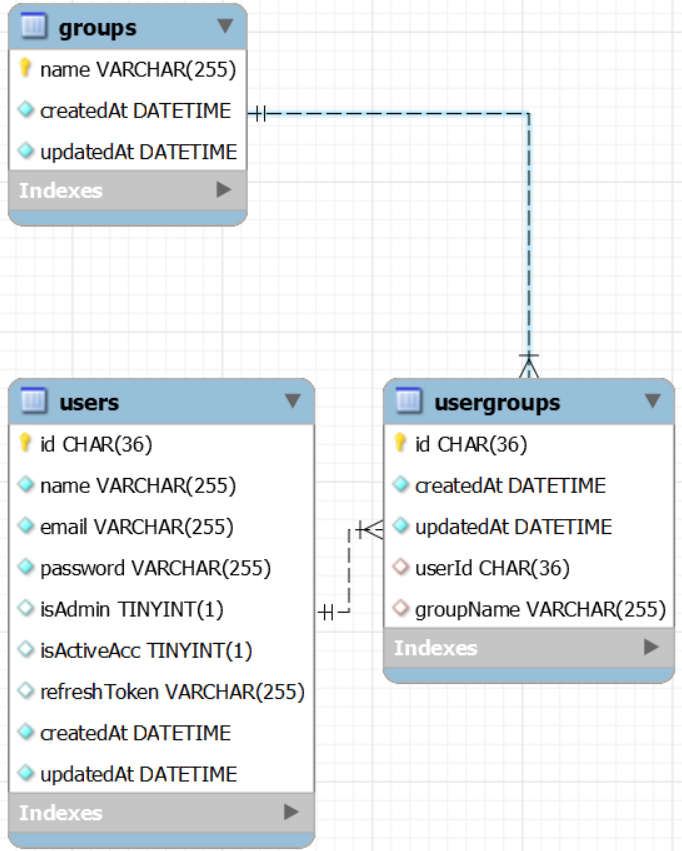
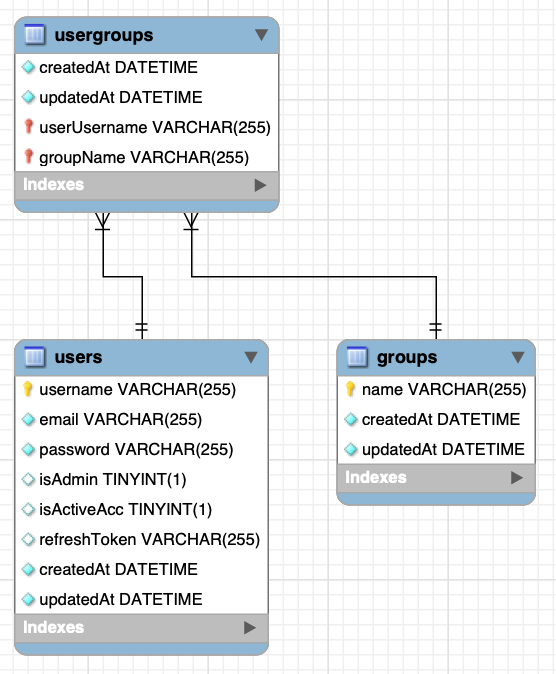
CSS for InputModal, update README & back button for LoginUpdate page

diff --git a/server/config/mockGroups.js b/server/config/mockGroups.js
@@ -2,78 +2,78 @@ const mockGroup = [
   { name: 'Staff Scientist' },
   { name: 'Design Engineer' },
   { name: 'Cost Accountant' },
-  { name: 'Geologist III' },
-  { name: 'Automation Specialist I' },
-  { name: 'Junior Executive' },
-  { name: 'Human Resources Assistant III' },
   { name: 'Senior Editor' },
+  { name: 'Junior Executive' },
   { name: 'Account Executive' },
   { name: 'Financial Analyst' },
   { name: 'Financial Advisor' },
-  { name: 'Help Desk Operator' },
-  { name: 'Senior Developer' },
-  { name: 'Structural Engineer' },
-  { name: 'Pharmacist' },
-  { name: 'Speech Pathologist' },
-  { name: 'Analyst Programmer' },
-  { name: 'Senior Financial Analyst' },
-  { name: 'Help Desk Technician' },
-  { name: 'Director of Sales' },
-  { name: 'Accountant III' },
-  { name: 'Software Consultant' },
-  { name: 'Product Engineer' },
-  { name: 'Account Representative I' },
-  { name: 'Biostatistician II' },
-  { name: 'Data Coordiator' },
-  { name: 'Desktop Support Technician' },
-  { name: 'Operator' },
-  { name: 'Office Assistant IV' },
-  { name: 'Administrative Officer' },
-  { name: 'Analog Circuit Design manager' },
-  { name: 'Payment Adjustment Coordinator' },
-  { name: 'Senior Cost Accountant' },
-  { name: 'Internal Auditor' },
-  { name: 'Web Developer IV' },
-  { name: 'Chief Design Engineer' },
-  { name: 'Chemical Engineer' },
-  { name: 'Quality Control Specialist' },
-  { name: 'Nurse' },
-  { name: 'Sales Associate' },
-  { name: 'Paralegal' },
-  { name: 'Nuclear Power Engineer' },
-  { name: 'Physical Therapy Assistant' },
-  { name: 'Engineer IV' },
-  { name: 'Accounting Assistant IV' },
-  { name: 'Marketing Manager' },
-  { name: 'Environmental Specialist' },
-  { name: 'Assistant Media Planner' },
-  { name: 'Account Representative IV' },
-  { name: 'Quality Engineer' },
-  { name: 'Nurse Practicioner' },
-  { name: 'Staff Accountant II' },
-  { name: 'Computer Systems Analyst IV' },
-  { name: 'Legal Assistant' },
-  { name: 'VP Quality Control' },
-  { name: 'Human Resources Assistant II' },
-  { name: 'Registered Nurse' },
-  { name: 'Safety Technician I' },
-  { name: 'Social Worker' },
-  { name: 'Business Systems Development Analyst' },
-  { name: 'Account Coordinator' },
-  { name: 'Environmental Tech' },
-  { name: 'Developer II' },
-  { name: 'Health Coach II' },
-  { name: 'Research Nurse' },
-  { name: 'Geologist I' },
-  { name: 'Tax Accountant' },
-  { name: 'Computer Systems Analyst I' },
-  { name: 'Technical Writer' },
-  { name: 'Dental Hygienist' },
-  { name: 'Sales Representative' },
-  { name: 'Systems Administrator II' },
-  { name: 'Senior Quality Engineer' },
-  { name: 'Media Manager III' },
-  { name: 'Geological Engineer' },
+  // { name: 'Automation Specialist I' },
+  // { name: 'Geologist III' },
+  // { name: 'Human Resources Assistant III' },
+  // { name: 'Help Desk Operator' },
+  // { name: 'Senior Developer' },
+  // { name: 'Structural Engineer' },
+  // { name: 'Pharmacist' },
+  // { name: 'Speech Pathologist' },
+  // { name: 'Analyst Programmer' },
+  // { name: 'Senior Financial Analyst' },
+  // { name: 'Help Desk Technician' },
+  // { name: 'Director of Sales' },
+  // { name: 'Accountant III' },
+  // { name: 'Software Consultant' },
+  // { name: 'Product Engineer' },
+  // { name: 'Account Representative I' },
+  // { name: 'Biostatistician II' },
+  // { name: 'Data Coordiator' },
+  // { name: 'Desktop Support Technician' },
+  // { name: 'Operator' },
+  // { name: 'Office Assistant IV' },
+  // { name: 'Administrative Officer' },
+  // { name: 'Analog Circuit Design manager' },
+  // { name: 'Payment Adjustment Coordinator' },
+  // { name: 'Senior Cost Accountant' },
+  // { name: 'Internal Auditor' },
+  // { name: 'Web Developer IV' },
+  // { name: 'Chief Design Engineer' },
+  // { name: 'Chemical Engineer' },
+  // { name: 'Quality Control Specialist' },
+  // { name: 'Nurse' },
+  // { name: 'Sales Associate' },
+  // { name: 'Paralegal' },
+  // { name: 'Nuclear Power Engineer' },
+  // { name: 'Physical Therapy Assistant' },
+  // { name: 'Engineer IV' },
+  // { name: 'Accounting Assistant IV' },
+  // { name: 'Marketing Manager' },
+  // { name: 'Environmental Specialist' },
+  // { name: 'Assistant Media Planner' },
+  // { name: 'Account Representative IV' },
+  // { name: 'Quality Engineer' },
+  // { name: 'Nurse Practicioner' },
+  // { name: 'Staff Accountant II' },
+  // { name: 'Computer Systems Analyst IV' },
+  // { name: 'Legal Assistant' },
+  // { name: 'VP Quality Control' },
+  // { name: 'Human Resources Assistant II' },
+  // { name: 'Registered Nurse' },
+  // { name: 'Safety Technician I' },
+  // { name: 'Social Worker' },
+  // { name: 'Business Systems Development Analyst' },
+  // { name: 'Account Coordinator' },
+  // { name: 'Environmental Tech' },
+  // { name: 'Developer II' },
+  // { name: 'Health Coach II' },
+  // { name: 'Research Nurse' },
+  // { name: 'Geologist I' },
+  // { name: 'Tax Accountant' },
+  // { name: 'Computer Systems Analyst I' },
+  // { name: 'Technical Writer' },
+  // { name: 'Dental Hygienist' },
+  // { name: 'Sales Representative' },
+  // { name: 'Systems Administrator II' },
+  // { name: 'Senior Quality Engineer' },
+  // { name: 'Media Manager III' },
+  // { name: 'Geological Engineer' },
 ];
 
 module.exports = mockGroup;

diff --git a/client/src/components/InputModal.js b/client/src/components/InputModal.js
@@ -15,10 +15,6 @@ const InputModal = ({
   const useStyles = makeStyles((theme) => ({
     paper: {
       position: 'absolute',
-      display: 'block',
-      overflow: 'hidden',
-      height: '100%',
-      maxHeight: 550,
       width: 400,
       backgroundColor: theme.palette.background.paper,
       border: '2px solid #000',
@@ -26,8 +22,11 @@ const InputModal = ({
       padding: theme.spacing(2, 4, 3),
     },
 
-    content: {
+    usergroups: {
       overflow: 'scroll',
+      maxHeight: 400,
+      marginTop: 15,
+      marginBottom: 5,
     },
   }));
 
@@ -77,33 +76,34 @@ const InputModal = ({
   const userForm = (
     <div style={modalStyle} className={classes.paper}>
       <form onSubmit={createUserHandler}>
+        <TextField
+          label="Username"
+          type="text"
+          id="username"
+          placeholder="John Doe"
+          onInput={inputUserHandler}
+          value={inputUserData.username}
+          fullWidth
+          autoFocus
+        />
+
+        <TextField
+          label="Email"
+          type="email"
+          id="email"
+          placeholder="lane@company.com"
+          onInput={inputUserHandler}
+          fullWidth
+          value={inputUserData.email}
+        />
+
         <Grid
           container
           spacing={1}
           alignContent="space-between"
           justifyContent="space-between"
+          className={classes.usergroups}
         >
-          <TextField
-            label="Username"
-            type="text"
-            id="username"
-            placeholder="John Doe"
-            onInput={inputUserHandler}
-            value={inputUserData.username}
-            fullWidth
-            autoFocus
-          />
-
-          <TextField
-            label="Email"
-            type="email"
-            id="email"
-            placeholder="lane@company.com"
-            onInput={inputUserHandler}
-            fullWidth
-            value={inputUserData.email}
-          />
-
           <Grid spacing={1} container justifyContent="center">
             {inGroups.map((group) => (
               <Grid item key={group}>
@@ -139,17 +139,17 @@ const InputModal = ({
               </Grid>
             ))}
           </Grid>
-
-          <Button
-            type="submit"
-            variant="contained"
-            color="primary"
-            fullWidth
-            style={{ margin: '16px 0' }}
-          >
-            Create
-          </Button>
         </Grid>
+
+        <Button
+          type="submit"
+          variant="contained"
+          color="primary"
+          fullWidth
+          style={{ margin: '16px 0' }}
+        >
+          Create
+        </Button>
       </form>
     </div>
   );

diff --git a/server/config/mockUsers.js b/server/config/mockUsers.js
@@ -1,7 +1,10 @@
 // prettier-ignore
 const mockUsers = [
-  { username: 'Phil Turfin', email: 'pturfin0@ft.com', password: 'password' },
-  { username: 'Imelda Sherston', email: 'isherston1@odnoklassniki.ru', password: 'password' },
+  { username: 'Florina Poate', email: 'fpoate1d@dyndns.org', password: 'password' },
+  { username: 'Georgy Flockhart', email: 'gflockhart1e@naver.com', password: 'password' },
+  { username: 'Jess Maidens', email: 'jmaidens2g@dmoz.org', password: 'password' },
+  // { username: 'Phil Turfin', email: 'pturfin0@ft.com', password: 'password' },
+  // { username: 'Imelda Sherston', email: 'isherston1@odnoklassniki.ru', password: 'password' },
   // { username: 'Jennilee Frise', email: 'jfrise2@t.co', password: 'password' },
   // { username: 'Dew Samsin', email: 'dsamsin3@sourceforge.net', password: 'password' },
   // { username: 'Harrietta Eccleston', email: 'heccleston4@chronoengine.com', password: 'password' },
@@ -55,8 +58,6 @@ const mockUsers = [
   // { username: 'Uriel Midner', email: 'umidner1a@ucsd.edu', password: 'password' },
   // { username: 'Zeb Sturt', email: 'zsturt1b@economist.com', password: 'password' },
   // { username: 'Lazar Willerson', email: 'lwillerson1c@usatoday.com', password: 'password' },
-  // { username: 'Florina Poate', email: 'fpoate1d@dyndns.org', password: 'password' },
-  // { username: 'Georgy Flockhart', email: 'gflockhart1e@naver.com', password: 'password' },
   // { username: 'Buck Thyer', email: 'bthyer1f@com.com', password: 'password' },
   // { username: 'Caren Audrey', email: 'caudrey1g@uol.com.br', password: 'password' },
   // { username: 'Dur Munslow', email: 'dmunslow1h@github.com', password: 'password' },
@@ -94,7 +95,6 @@ const mockUsers = [
   // { username: 'Clem Faragan', email: 'cfaragan2d@webeden.co.uk', password: 'password' },
   // { username: 'Sam Pottell', email: 'spottell2e@narod.ru', password: 'password' },
   // { username: 'Maury Kiffe', email: 'mkiffe2f@printfriendly.com', password: 'password' },
-  // { username: 'Jess Maidens', email: 'jmaidens2g@dmoz.org', password: 'password' },
   // { username: 'Shantee Georgeou', email: 'sgeorgeou2h@adobe.com', password: 'password' },
   // { username: 'Reinaldos Meconi', email: 'rmeconi2i@dyndns.org', password: 'password' },
   // { username: 'Ody Dizlie', email: 'odizlie2j@eepurl.com', password: 'password' },

diff --git a/client/src/pages/LoginUpdate.js b/client/src/pages/LoginUpdate.js
@@ -134,6 +134,15 @@ const Login = () => {
                 Comprise of alphabets , numbers, and special character. Minimum 8
                 characters and maximum 10 characters.
               </Typography>
+
+              <Button
+                type="button"
+                variant="outlined"
+                color="secondary"
+                onClick={() => navigate(-1)}
+              >
+                Back
+              </Button>
             </>
           )}
         </Grid>

diff --git a/README.md b/README.md
@@ -16,19 +16,19 @@
 - Default application setup with 1 Admin account
 - <b>User management interface (Admin only):</b>
   - Create new user
-  - Change user's name or email
-  - Reset user's password to default password
-    - Cannot reset Admin's password to default password
-  - Assign user to user group(s)
+  - Change user's username or email
+  - Change user's password
+  - Assign/remove user to/from usergroup(s)
   - Disable user's account
     - Cannot disable Admin account
-  - Check if given user id is in user group
+  - Check if given username is in user group
     - <b>Backend only: </b>use to check access rights in phase 2 (Task management) of the project
 - <b>Update profile interface (User or Admin):</b>
   - Change email
   - Change password
-    - Minimum 8 characters and maximum 10 characters
-    - Comprise of alphabets, numbers, and special character
+- <b>Password Requirements:</b>
+  - Minimum 8 characters and maximum 10 characters
+  - Comprise of alphabets, numbers, and special character
 
 <img src="./diagrams/phase1-eer.png" alt="phase1-eer" width="350"/>
 
